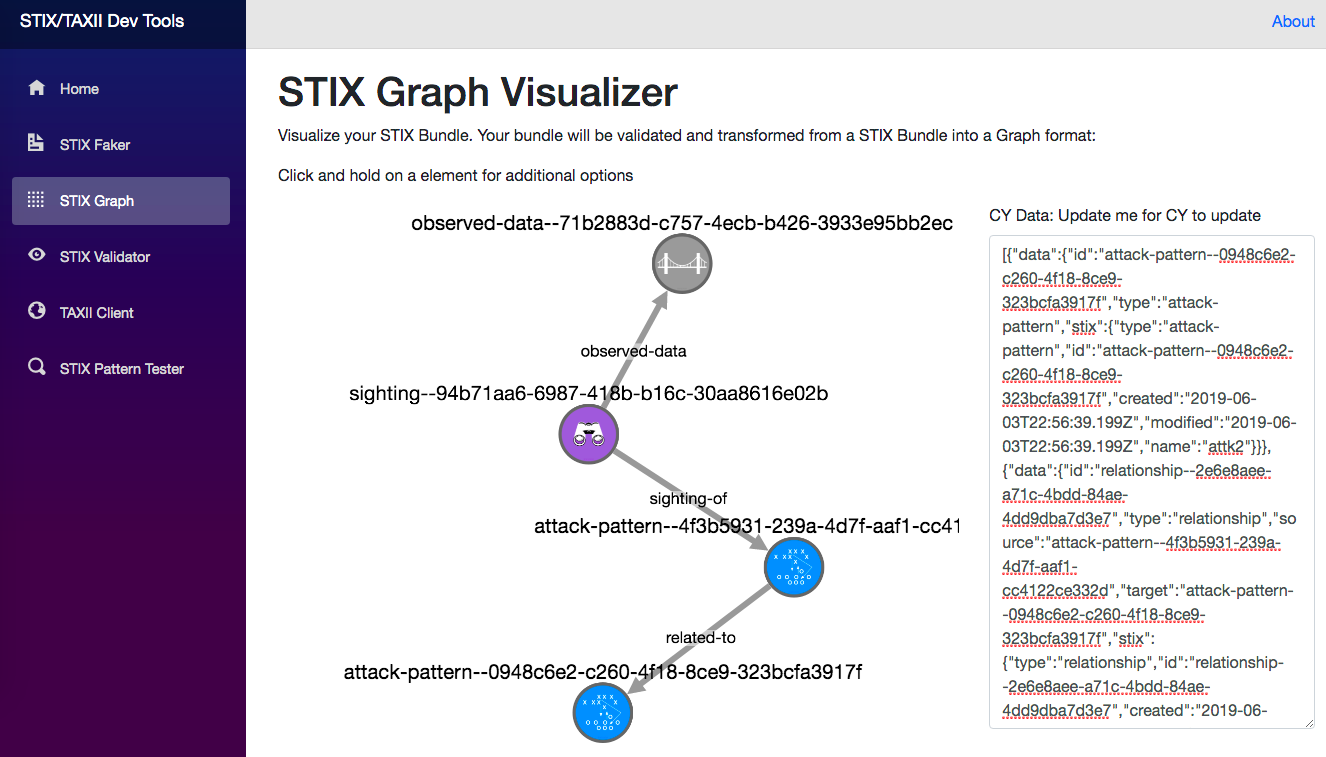
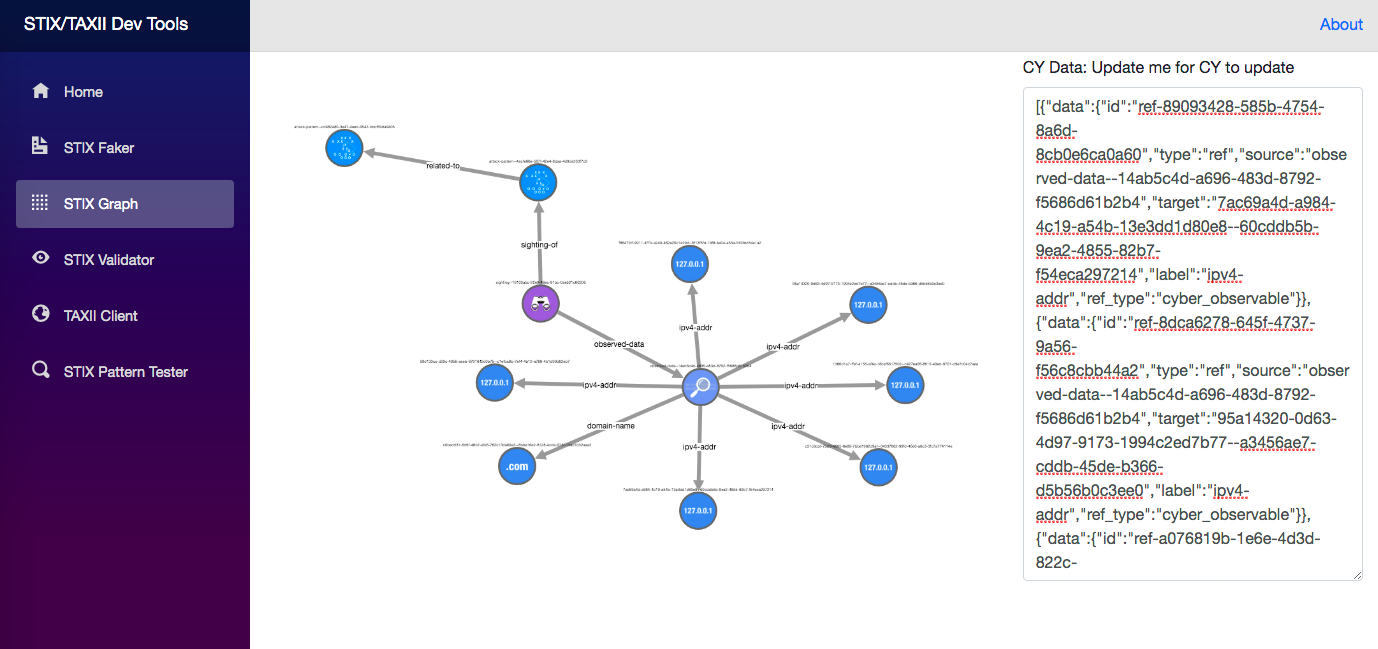
update readme with updated graph support

Changed region(s): [[0.0, 0.0, 1.0, 1.0]]

diff --git a/README.md b/README.md
@@ -224,7 +224,7 @@ The internal implementation is configured as follows:
 
 ```java
 class SomeClass {
-...
+//...
     @JsonProperty("created_by_ref") @JsonInclude(value = NON_EMPTY, content = NON_EMPTY)
     @JsonIdentityInfo(generator= ObjectIdGenerators.PropertyGenerator.class, property="id")
     @JsonIdentityReference(alwaysAsId=true)
@@ -244,7 +244,7 @@ class SomeClass {
     @JsonProperty("granular_markings") @JsonInclude(NON_EMPTY)
     @Redactable
     Set<GranularMarkingDm> getGranularMarkings();
-...
+//...
 }
 ```
 
@@ -285,36 +285,159 @@ and the request returns the Cytoscape compliant json for Network graph rendering
 
 This library will consume a STIX Bundle, and convert it into Cytoscape.js nodes/edges json, such as:
 
+Output was generated from the [BundleGraphSpec](./src/test/groovy/stix/bundle/BundleGraphSpec.groovy)
 
 ```json
 [
   {
     "data": {
-      "id": "attack-pattern--0948c6e2-c260-4f18-8ce9-323bcfa3917f",
+      "id": "ref-89093428-585b-4754-8a6d-8cb0e6ca0a60",
+      "type": "ref",
+      "source": "observed-data--14ab5c4d-a696-483d-8792-f5686d61b2b4",
+      "target": "7ac69a4d-a984-4c19-a54b-13e3dd1d80e8--60cddb5b-9ea2-4855-82b7-f54eca297214",
+      "label": "ipv4-addr",
+      "ref_type": "cyber_observable"
+    }
+  },
+  {
+    "data": {
+      "id": "ref-8dca6278-645f-4737-9a56-f56c8cbb44a2",
+      "type": "ref",
+      "source": "observed-data--14ab5c4d-a696-483d-8792-f5686d61b2b4",
+      "target": "95a14320-0d63-4d97-9173-1994c2ed7b77--a3456ae7-cddb-45de-b366-d5b56b0c3ee0",
+      "label": "ipv4-addr",
+      "ref_type": "cyber_observable"
+    }
+  },
+  {
+    "data": {
+      "id": "ref-a076819b-1e6e-4d3d-822c-96f215444f23",
+      "type": "ref",
+      "source": "sighting--16103a5c-22e9-46ec-91bc-0ae521c60206",
+      "target": "attack-pattern--4acfe66e-587f-42e4-8daa-4d9da233f7c9",
+      "label": "sighting-of",
+      "ref_type": "sighting_of_ref"
+    }
+  },
+  {
+    "data": {
+      "id": "ref-2f53e5f1-9897-45cd-a1ca-12671419a021",
+      "type": "ref",
+      "source": "observed-data--14ab5c4d-a696-483d-8792-f5686d61b2b4",
+      "target": "1366d1a7-ffef-4155-af4e-18cef6517502--c427ea06-8615-49ed-9701-d9e7c04c7aea",
+      "label": "ipv4-addr",
+      "ref_type": "cyber_observable"
+    }
+  },
+  {
+    "data": {
+      "id": "c0bedd31-6d9f-48b7-afe5-762c13da69a3--8bbe16e2-8128-4cde-973f-15ac7d32aaa2",
+      "type": "coo-domain-name",
+      "stix": {
+        "type": "domain-name",
+        "value": "http://google.com"
+      }
+    }
+  },
+  {
+    "data": {
+      "id": "ref-3901a3de-a38a-4bea-b784-3a08caef4c5f",
+      "type": "ref",
+      "source": "observed-data--14ab5c4d-a696-483d-8792-f5686d61b2b4",
+      "target": "f8647fdf-9011-4f7b-a240-462a20c1a29d--5f13f5fd-19f8-4e04-a53a-fd03dd54a1a2",
+      "label": "ipv4-addr",
+      "ref_type": "cyber_observable"
+    }
+  },
+  {
+    "data": {
+      "id": "attack-pattern--cd482a80-3e47-4eed-9542-bbcf69da9405",
       "type": "attack-pattern",
       "stix": {
         "type": "attack-pattern",
-        "id": "attack-pattern--0948c6e2-c260-4f18-8ce9-323bcfa3917f",
-        "created": "2019-06-03T22:56:39.199Z",
-        "modified": "2019-06-03T22:56:39.199Z",
+        "id": "attack-pattern--cd482a80-3e47-4eed-9542-bbcf69da9405",
+        "created": "2019-06-05T22:49:29.813Z",
+        "modified": "2019-06-05T22:49:29.813Z",
         "name": "attk2"
       }
     }
   },
   {
     "data": {
-      "id": "relationship--2e6e8aee-a71c-4bdd-84ae-4dd9dba7d3e7",
+      "id": "sighting--16103a5c-22e9-46ec-91bc-0ae521c60206",
+      "type": "sighting",
+      "stix": {
+        "type": "sighting",
+        "id": "sighting--16103a5c-22e9-46ec-91bc-0ae521c60206",
+        "created": "2019-06-05T22:49:30.798Z",
+        "modified": "2019-06-05T22:49:30.798Z",
+        "first_seen": "2019-06-05T22:49:30.76Z",
+        "last_seen": "2019-06-05T22:49:30.788Z",
+        "count": 1,
+        "sighting_of_ref": "attack-pattern--4acfe66e-587f-42e4-8daa-4d9da233f7c9",
+        "observed_data_refs": [
+          "observed-data--14ab5c4d-a696-483d-8792-f5686d61b2b4"
+        ]
+      }
+    }
+  },
+  {
+    "data": {
+      "id": "1366d1a7-ffef-4155-af4e-18cef6517502--c427ea06-8615-49ed-9701-d9e7c04c7aea",
+      "type": "coo-ipv4-addr",
+      "stix": {
+        "type": "ipv4-addr",
+        "value": "10.10.10.14"
+      }
+    }
+  },
+  {
+    "data": {
+      "id": "ref-6b0818cf-9edf-4073-ade4-827df72de27a",
+      "type": "ref",
+      "source": "observed-data--14ab5c4d-a696-483d-8792-f5686d61b2b4",
+      "target": "c31c8cbf-7bd3-4865-8e89-7bbe1962d9af--34337862-99fd-46e0-a8c3-3fc7a774114e",
+      "label": "ipv4-addr",
+      "ref_type": "cyber_observable"
+    }
+  },
+  {
+    "data": {
+      "id": "f8647fdf-9011-4f7b-a240-462a20c1a29d--5f13f5fd-19f8-4e04-a53a-fd03dd54a1a2",
+      "type": "coo-ipv4-addr",
+      "stix": {
+        "type": "ipv4-addr",
+        "value": "10.10.10.15"
+      }
+    }
+  },
+  {
+    "data": {
+      "id": "attack-pattern--4acfe66e-587f-42e4-8daa-4d9da233f7c9",
+      "type": "attack-pattern",
+      "stix": {
+        "id": "attack-pattern--4acfe66e-587f-42e4-8daa-4d9da233f7c9",
+        "type": "attack-pattern",
+        "created": "2019-06-05T22:49:28.455Z",
+        "modified": "2019-06-05T22:49:28.455Z",
+        "name": "attk1"
+      }
+    }
+  },
+  {
+    "data": {
+      "id": "relationship--70fca22d-4385-4194-a093-3a7cdb1a2a85",
       "type": "relationship",
-      "source": "attack-pattern--4f3b5931-239a-4d7f-aaf1-cc4122ce332d",
-      "target": "attack-pattern--0948c6e2-c260-4f18-8ce9-323bcfa3917f",
+      "source": "attack-pattern--4acfe66e-587f-42e4-8daa-4d9da233f7c9",
+      "target": "attack-pattern--cd482a80-3e47-4eed-9542-bbcf69da9405",
       "stix": {
         "type": "relationship",
-        "id": "relationship--2e6e8aee-a71c-4bdd-84ae-4dd9dba7d3e7",
-        "created": "2019-06-03T22:56:39.251Z",
-        "modified": "2019-06-03T22:56:39.251Z",
+        "id": "relationship--70fca22d-4385-4194-a093-3a7cdb1a2a85",
+        "created": "2019-06-05T22:49:29.897Z",
+        "modified": "2019-06-05T22:49:29.897Z",
         "relationship_type": "related-to",
-        "source_ref": "attack-pattern--4f3b5931-239a-4d7f-aaf1-cc4122ce332d",
-        "target_ref": "attack-pattern--0948c6e2-c260-4f18-8ce9-323bcfa3917f"
+        "source_ref": "attack-pattern--4acfe66e-587f-42e4-8daa-4d9da233f7c9",
+        "target_ref": "attack-pattern--cd482a80-3e47-4eed-9542-bbcf69da9405"
       },
       "label": "related-to",
       "relationship_type": "related-to"
@@ -322,20 +445,54 @@ This library will consume a STIX Bundle, and convert it into Cytoscape.js nodes/
   },
   {
     "data": {
-      "id": "observed-data--71b2883d-c757-4ecb-b426-3933e95bb2ec",
+      "id": "95a14320-0d63-4d97-9173-1994c2ed7b77--a3456ae7-cddb-45de-b366-d5b56b0c3ee0",
+      "type": "coo-ipv4-addr",
+      "stix": {
+        "type": "ipv4-addr",
+        "value": "10.10.10.11"
+      }
+    }
+  },
+  {
+    "data": {
+      "id": "observed-data--14ab5c4d-a696-483d-8792-f5686d61b2b4",
       "type": "observed-data",
       "stix": {
+        "id": "observed-data--14ab5c4d-a696-483d-8792-f5686d61b2b4",
         "type": "observed-data",
-        "id": "observed-data--71b2883d-c757-4ecb-b426-3933e95bb2ec",
-        "created": "2019-06-03T22:56:39.568Z",
-        "modified": "2019-06-03T22:56:39.568Z",
-        "first_observed": "2019-06-03T22:56:39.558Z",
-        "last_observed": "2019-06-03T22:56:39.561Z",
+        "created": "2019-06-05T22:49:30.479Z",
+        "modified": "2019-06-05T22:49:30.479Z",
+        "first_observed": "2019-06-05T22:49:30.47Z",
+        "last_observed": "2019-06-05T22:49:30.472Z",
         "number_observed": 2,
         "objects": {
-          "f8bce32c-a93d-4a79-b026-ecb1aac3df54": {
+          "c0bedd31-6d9f-48b7-afe5-762c13da69a3": {
             "type": "domain-name",
             "value": "http://google.com"
+          },
+          "7ac69a4d-a984-4c19-a54b-13e3dd1d80e8": {
+            "type": "ipv4-addr",
+            "value": "10.10.10.10"
+          },
+          "95a14320-0d63-4d97-9173-1994c2ed7b77": {
+            "type": "ipv4-addr",
+            "value": "10.10.10.11"
+          },
+          "c31c8cbf-7bd3-4865-8e89-7bbe1962d9af": {
+            "type": "ipv4-addr",
+            "value": "10.10.10.12"
+          },
+          "59d133cc-d29c-4056-aeeb-6791842c0b75": {
+            "type": "ipv4-addr",
+            "value": "10.10.10.13"
+          },
+          "1366d1a7-ffef-4155-af4e-18cef6517502": {
+            "type": "ipv4-addr",
+            "value": "10.10.10.14"
+          },
+          "f8647fdf-9011-4f7b-a240-462a20c1a29d": {
+            "type": "ipv4-addr",
+            "value": "10.10.10.15"
           }
         }
       }
@@ -343,54 +500,62 @@ This library will consume a STIX Bundle, and convert it into Cytoscape.js nodes/
   },
   {
     "data": {
-      "id": "sighting--94b71aa6-6987-418b-b16c-30aa8616e02b",
-      "type": "sighting",
+      "id": "59d133cc-d29c-4056-aeeb-6791842c0b75--c1efba8b-7ef4-4b12-a768-4b1d99d82eb7",
+      "type": "coo-ipv4-addr",
       "stix": {
-        "type": "sighting",
-        "id": "sighting--94b71aa6-6987-418b-b16c-30aa8616e02b",
-        "created": "2019-06-03T22:56:39.798Z",
-        "modified": "2019-06-03T22:56:39.798Z",
-        "first_seen": "2019-06-03T22:56:39.771Z",
-        "last_seen": "2019-06-03T22:56:39.784Z",
-        "count": 1,
-        "sighting_of_ref": "attack-pattern--4f3b5931-239a-4d7f-aaf1-cc4122ce332d",
-        "observed_data_refs": [
-          "observed-data--71b2883d-c757-4ecb-b426-3933e95bb2ec"
-        ]
+        "type": "ipv4-addr",
+        "value": "10.10.10.13"
       }
     }
   },
   {
     "data": {
-      "id": "ref-5edc079a-c7d0-4093-8b5d-1b172d9e3a24",
+      "id": "ref-029c8857-f9e0-49c6-bdaf-d3391acfbd61",
       "type": "ref",
-      "source": "sighting--94b71aa6-6987-418b-b16c-30aa8616e02b",
-      "target": "observed-data--71b2883d-c757-4ecb-b426-3933e95bb2ec",
+      "source": "observed-data--14ab5c4d-a696-483d-8792-f5686d61b2b4",
+      "target": "59d133cc-d29c-4056-aeeb-6791842c0b75--c1efba8b-7ef4-4b12-a768-4b1d99d82eb7",
+      "label": "ipv4-addr",
+      "ref_type": "cyber_observable"
+    }
+  },
+  {
+    "data": {
+      "id": "7ac69a4d-a984-4c19-a54b-13e3dd1d80e8--60cddb5b-9ea2-4855-82b7-f54eca297214",
+      "type": "coo-ipv4-addr",
+      "stix": {
+        "type": "ipv4-addr",
+        "value": "10.10.10.10"
+      }
+    }
+  },
+  {
+    "data": {
+      "id": "c31c8cbf-7bd3-4865-8e89-7bbe1962d9af--34337862-99fd-46e0-a8c3-3fc7a774114e",
+      "type": "coo-ipv4-addr",
+      "stix": {
+        "type": "ipv4-addr",
+        "value": "10.10.10.12"
+      }
+    }
+  },
+  {
+    "data": {
+      "id": "ref-a8cfe6f7-6d73-4e38-9199-0919fd6c3b74",
+      "type": "ref",
+      "source": "sighting--16103a5c-22e9-46ec-91bc-0ae521c60206",
+      "target": "observed-data--14ab5c4d-a696-483d-8792-f5686d61b2b4",
       "label": "observed-data",
       "ref_type": "observed_data"
     }
   },
   {
     "data": {
-      "id": "attack-pattern--4f3b5931-239a-4d7f-aaf1-cc4122ce332d",
-      "type": "attack-pattern",
-      "stix": {
-        "id": "attack-pattern--4f3b5931-239a-4d7f-aaf1-cc4122ce332d",
-        "type": "attack-pattern",
-        "created": "2019-06-03T22:56:38.587Z",
-        "modified": "2019-06-03T22:56:38.587Z",
-        "name": "attk1"
-      }
-    }
-  },
-  {
-    "data": {
-      "id": "ref-d7c742d1-c974-4f45-9c95-c7b6d849ea16",
+      "id": "ref-0ef21e43-1451-4b0a-8f8e-866e01b91eb0",
       "type": "ref",
-      "source": "sighting--94b71aa6-6987-418b-b16c-30aa8616e02b",
-      "target": "attack-pattern--4f3b5931-239a-4d7f-aaf1-cc4122ce332d",
-      "label": "sighting-of",
-      "ref_type": "sighting_of_ref"
+      "source": "observed-data--14ab5c4d-a696-483d-8792-f5686d61b2b4",
+      "target": "c0bedd31-6d9f-48b7-afe5-762c13da69a3--8bbe16e2-8128-4cde-973f-15ac7d32aaa2",
+      "label": "domain-name",
+      "ref_type": "cyber_observable"
     }
   }
 ]
